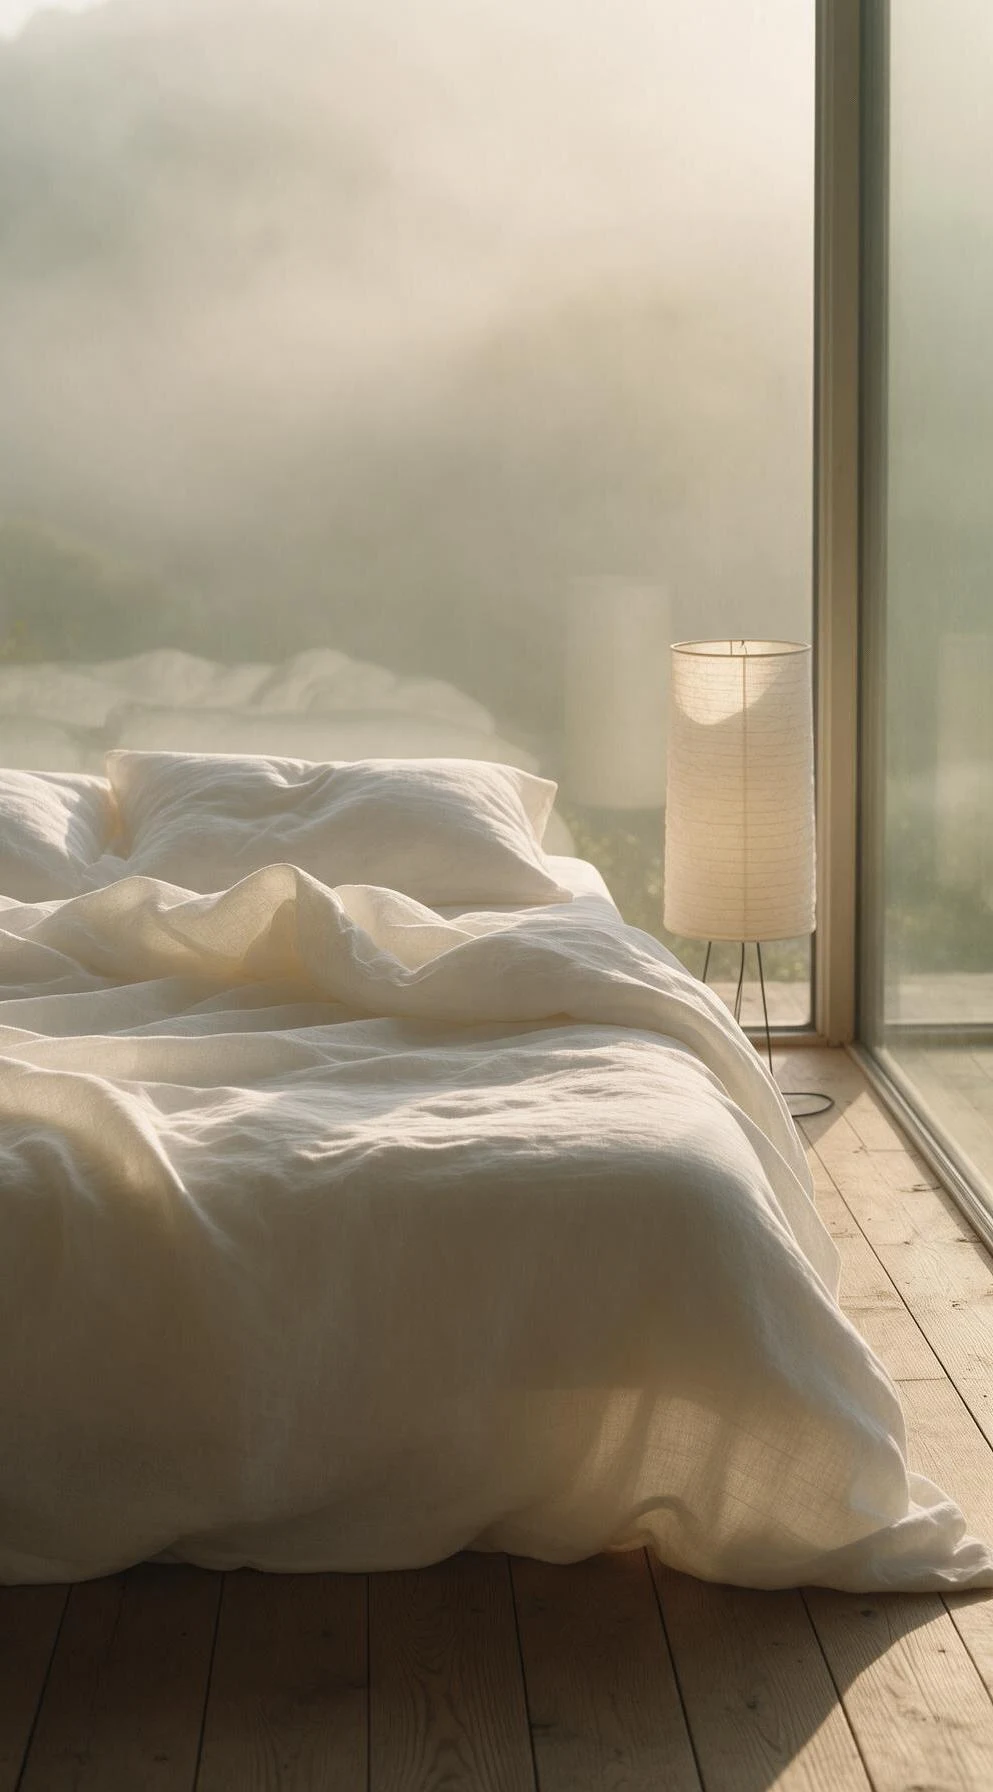
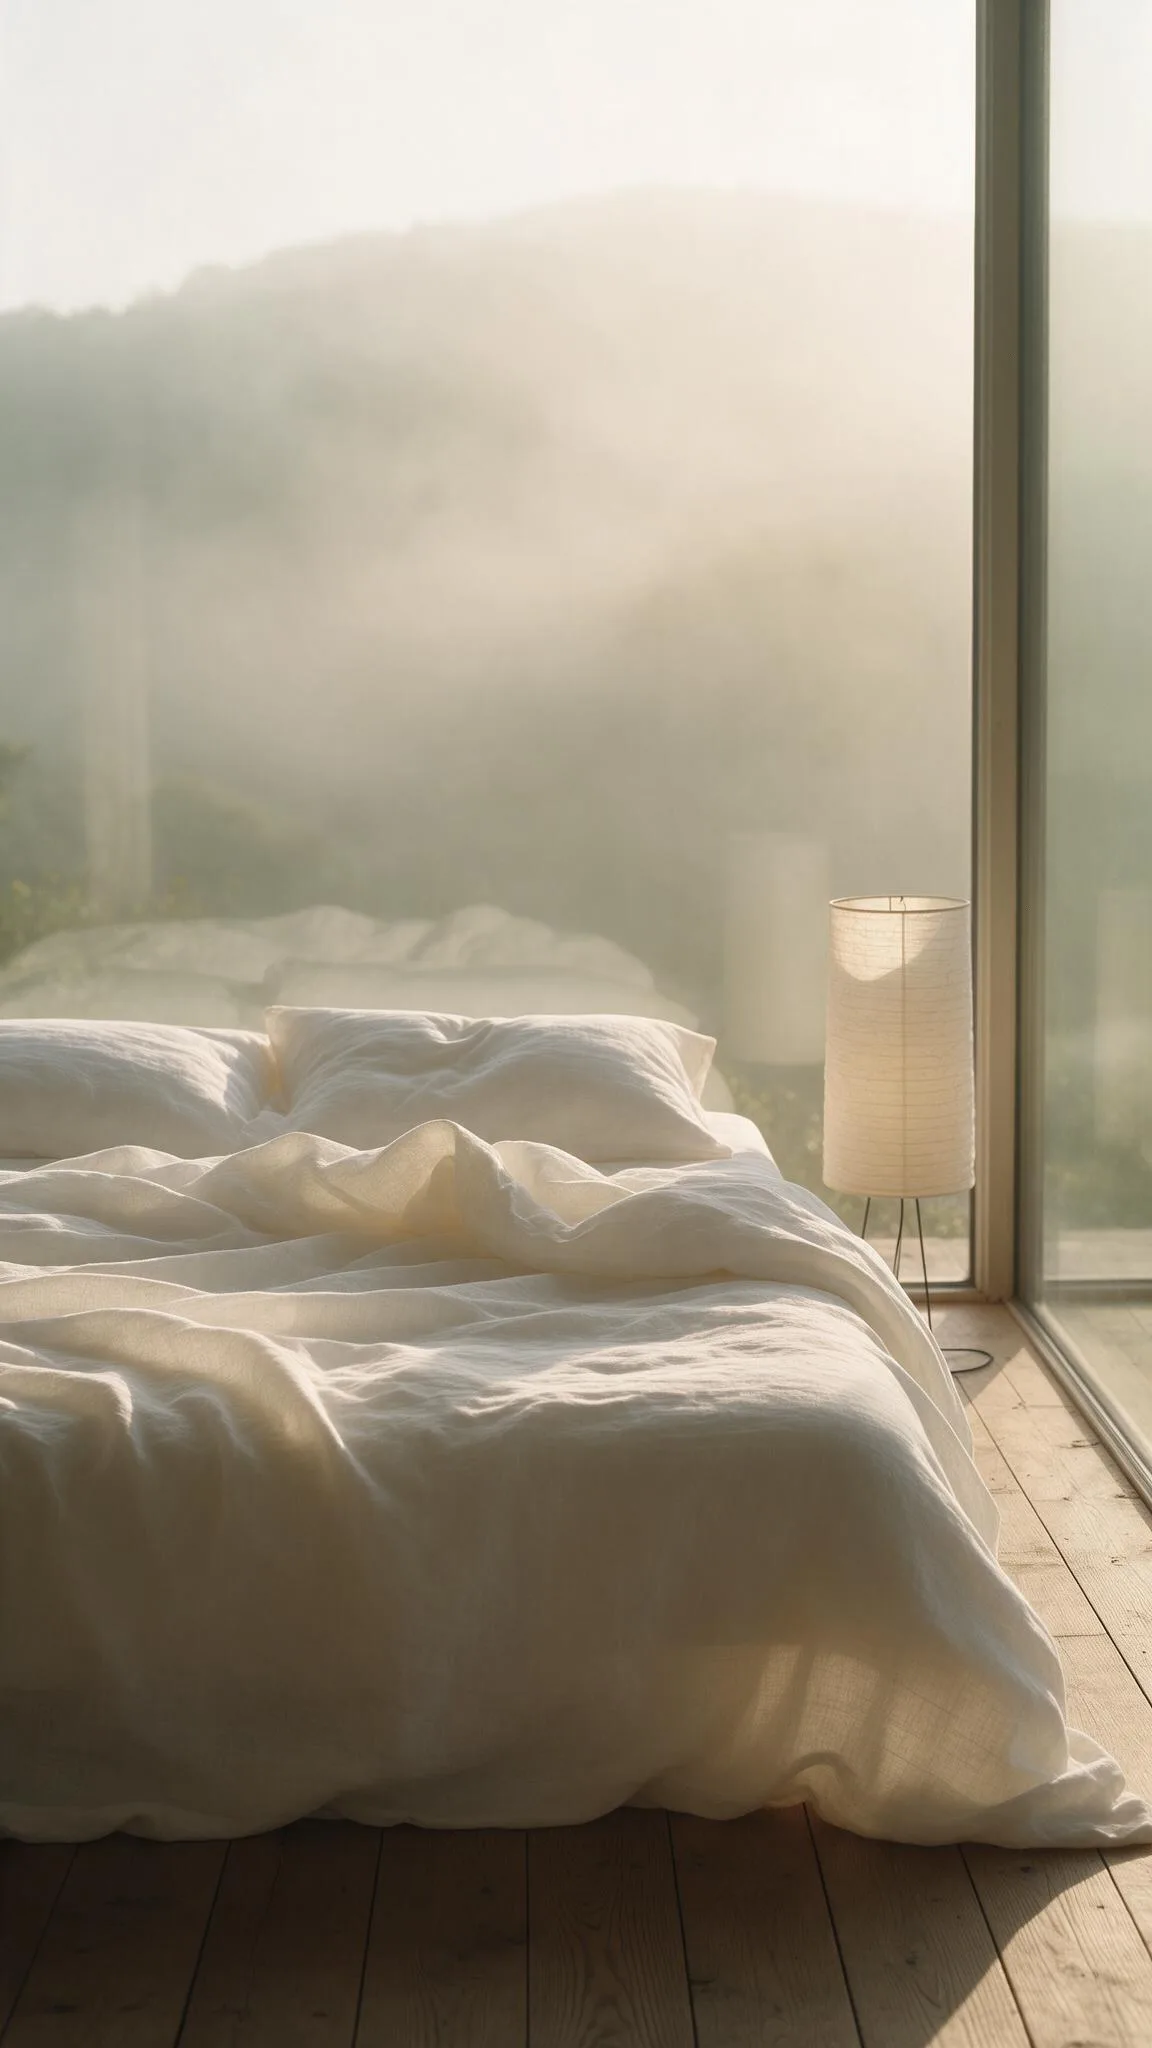
首页 hero 移动端：换回 B 薄雾图，恢复白字 + 白边圆角按键与中下相对定位，高度 89svh

diff --git a/src/data/product-weights.ts b/src/data/product-weights.ts
@@ -1,6 +1,6 @@
 // Auto-generated by scripts/build-weights.js
 // DO NOT EDIT MANUALLY - 人工赋权改 src/data/weights-overrides.ts 后重跑本脚本
-// Generated at: 2026-10-27T20:55:56.366Z
+// Generated at: 2026-10-27T21:19:54.864Z
 
 export interface ProductWeight {
   /** 一级类目（同分破平用类目平均分） */
@@ -56,7 +56,7 @@ export const PRODUCT_WEIGHTS: Record<string, ProductWeight> = {
   "b0f1y4j48t": {"type":"Cushions","score":19,"perf":19,"boost":0},
   "b0f1y91hpr": {"type":"Cushions","score":16.3,"perf":16.3,"boost":0},
   "b0f62xrb55": {"type":"Pillows","score":18.2,"perf":18.2,"boost":0},
-  "b0fnqrrv78": {"type":"Cushions","score":22.5,"perf":22.5,"boost":0},
+  "b0fnqrrv78": {"type":"Cushions","score":22.4,"perf":22.4,"boost":0},
   "b0g6m3f7cy": {"type":"Pillows","score":23.9,"perf":23.9,"boost":0},
   "b0g6mptvfd": {"type":"Pillows","score":51.7,"perf":21.7,"boost":30},
   "mk-pc-cord-caramel": {"type":"Pillows","score":26.6,"perf":26.6,"boost":0},
@@ -157,7 +157,7 @@ export const PRODUCT_WEIGHTS: Record<string, ProductWeight> = {
   "969627065032-c33": {"type":"Blankets","score":21.6,"perf":21.6,"boost":0},
   "744995685423-c2": {"type":"Mats","score":21.6,"perf":21.6,"boost":0},
   "595229918569-c2": {"type":"Mats","score":23.2,"perf":23.2,"boost":0},
-  "744995685423": {"type":"Mats","score":21.7,"perf":21.7,"boost":0},
+  "744995685423": {"type":"Mats","score":21.6,"perf":21.6,"boost":0},
   "595229918569": {"type":"Mats","score":21.7,"perf":21.7,"boost":0},
   "745181807454-c3": {"type":"Mats","score":21.7,"perf":21.7,"boost":0},
   "745181807454-c2": {"type":"Mats","score":22.4,"perf":22.4,"boost":0},
@@ -167,7 +167,7 @@ export const PRODUCT_WEIGHTS: Record<string, ProductWeight> = {
   "996768645117-c3": {"type":"Mats","score":48.9,"perf":23.9,"boost":25},
   "595229918569-c3": {"type":"Mats","score":23.2,"perf":23.2,"boost":0},
   "745181807454-c4": {"type":"Mats","score":23.2,"perf":23.2,"boost":0},
-  "745181807454-c6": {"type":"Mats","score":23.9,"perf":23.9,"boost":0},
+  "745181807454-c6": {"type":"Mats","score":23.8,"perf":23.8,"boost":0},
   "745181807454-c5": {"type":"Mats","score":48.9,"perf":23.9,"boost":25},
   "745181807454-c7": {"type":"Mats","score":24.5,"perf":24.5,"boost":0},
   "745181807454-c8": {"type":"Mats","score":23.2,"perf":23.2,"boost":0},
@@ -209,7 +209,7 @@ export const PRODUCT_WEIGHTS: Record<string, ProductWeight> = {
   "duvset-pink-queen": {"type":"Bedding","score":25.9,"perf":25.9,"boost":0},
   "duvset-pink-full": {"type":"Bedding","score":25.1,"perf":25.1,"boost":0},
   "duvset-pink-twin": {"type":"Bedding","score":25.9,"perf":25.9,"boost":0},
-  "duvset-beige-king": {"type":"Bedding","score":23.2,"perf":23.2,"boost":0},
+  "duvset-beige-king": {"type":"Bedding","score":23.1,"perf":23.1,"boost":0},
   "duvset-beige-queen": {"type":"Bedding","score":55,"perf":25,"boost":30},
   "duvset-beige-full": {"type":"Bedding","score":52.9,"perf":25.9,"boost":27},
   "duvset-beige-twin": {"type":"Bedding","score":23.8,"perf":23.8,"boost":0},
@@ -240,7 +240,7 @@ export const PRODUCT_WEIGHTS: Record<string, ProductWeight> = {
   "bedset4-moss-twin": {"type":"Bedding","score":23.3,"perf":23.3,"boost":0},
   "bedset4-moss-full": {"type":"Bedding","score":24.1,"perf":24.1,"boost":0},
   "bedset4-moss-queen": {"type":"Bedding","score":54.8,"perf":24.8,"boost":30},
-  "bedset4-moss-king": {"type":"Bedding","score":23.3,"perf":23.3,"boost":0},
+  "bedset4-moss-king": {"type":"Bedding","score":23.2,"perf":23.2,"boost":0},
   "bedset4-coffee-twin": {"type":"Bedding","score":23.2,"perf":23.2,"boost":0},
   "bedset4-coffee-full": {"type":"Bedding","score":24,"perf":24,"boost":0},
   "bedset4-coffee-queen": {"type":"Bedding","score":53.3,"perf":23.3,"boost":30},
@@ -257,12 +257,12 @@ export const PRODUCT_WEIGHTS: Record<string, ProductWeight> = {
   "linen3-sage-full": {"type":"Bedding","score":26.4,"perf":26.4,"boost":0},
   "linen3-sage-queen": {"type":"Bedding","score":55.7,"perf":25.7,"boost":30},
   "linen3-sage-king": {"type":"Bedding","score":26.3,"perf":26.3,"boost":0},
-  "linen3-charcoal-twin": {"type":"Bedding","score":26.5,"perf":26.5,"boost":0},
+  "linen3-charcoal-twin": {"type":"Bedding","score":26.4,"perf":26.4,"boost":0},
   "linen3-charcoal-full": {"type":"Bedding","score":26.4,"perf":26.4,"boost":0},
   "linen3-charcoal-queen": {"type":"Bedding","score":55.5,"perf":25.5,"boost":30},
   "linen3-charcoal-king": {"type":"Bedding","score":27.1,"perf":27.1,"boost":0},
   "linen3-dustyblue-twin": {"type":"Bedding","score":26.4,"perf":26.4,"boost":0},
-  "linen3-dustyblue-full": {"type":"Bedding","score":26.4,"perf":26.4,"boost":0},
+  "linen3-dustyblue-full": {"type":"Bedding","score":26.3,"perf":26.3,"boost":0},
   "linen3-dustyblue-queen": {"type":"Bedding","score":56.3,"perf":26.3,"boost":30},
   "linen3-dustyblue-king": {"type":"Bedding","score":25.7,"perf":25.7,"boost":0},
   "linen3-ivory-twin": {"type":"Bedding","score":25.7,"perf":25.7,"boost":0},

diff --git a/src/components/v2/V2Hero.tsx b/src/components/v2/V2Hero.tsx
@@ -4,7 +4,7 @@ import { v2url } from '@/lib/v2paths';
 // 静态 Hero：editorial-B「落地窗薄雾山野」（2026-10-27 用户定转正；sunday/autumn 版文件保留未删）
 const heroImage = {
   desktop: '/images/brand/hero-mist-desktop.webp',
-  mobile: '/images/brand/hero-japandi-mobile.webp',
+  mobile: '/images/brand/hero-mist-mobile.webp',
   alt: 'Makimoo bed floating in soft morning mist by a floor-to-ceiling window with mountain view',
 };
 
@@ -15,11 +15,11 @@ export default function V2Hero() {
     // 用 vh 会按最大可视高计算，首屏内容被挤出屏外。svh 保证两种状态下 Hero 都不溢出（2026-09-28 用户反馈 Edge 实测）。
     // bg-[#cfc0a8]：图片解码完成前的暖色垫层（hero 图墙面色调）——sticky 结构下 hero 顶部紧贴
     // 公告条下沿，无垫层时加载中会透出身后米色、形成一道"缝隙"（2026-10-12 用户反馈）
-    <section className="relative h-[87svh] min-h-[440px] lg:h-[87vh] lg:min-h-[560px] overflow-hidden bg-[#cfc0a8]">
+    <section className="relative h-[89svh] min-h-[440px] lg:h-[87vh] lg:min-h-[560px] overflow-hidden bg-[#cfc0a8]">
       {/* Background（静态单图；2026-10-10 用户定取消 ken-burns 缩放动效）：移动端 9:16、桌面端 16:9 两层按断点切换 */}
       <div className="absolute inset-0 overflow-hidden">
         <div
-          className="absolute inset-0 bg-cover bg-bottom lg:hidden"
+          className="absolute inset-0 bg-cover bg-top lg:hidden"
           style={{ backgroundImage: `url(${resolveUrl(heroImage.mobile)})` }}
           role="img"
           aria-label={heroImage.alt}
@@ -35,16 +35,16 @@ export default function V2Hero() {
       {/* Text content：移动端 justify-center + pb-[calc(9svh+90px)]；
           桌面端 2026-10-27 用户定：锚定视口左侧 lg:px-[7vw]（废弃 max-w-1400 居中 + min() 抵消方案——
           不同分辨率下位置乱跳，窄屏甚至反向右移）；字号流式 clamp 随分辨率缩放；底部 justify-end + 上移 70px */}
-      <div className="relative z-10 h-full max-w-[1400px] mx-auto px-8 lg:px-[7vw] flex flex-col justify-end lg:max-w-none lg:px-[7vw] lg:-translate-y-[70px] lg:pb-[8vh]">
+      <div className="relative z-10 h-full max-w-[1400px] mx-auto px-6 flex flex-col justify-center pb-[20svh] lg:max-w-none lg:px-[7vw] lg:-translate-y-[70px] lg:justify-end lg:pb-[8vh]">
         <h1
-          className="text-[24px] sm:text-3xl lg:text-[clamp(2rem,2.6vw,3rem)] lg:leading-[1.05] font-extrabold tracking-tight leading-[1.05] text-[#916F54] lg:text-cream max-w-3xl mb-[25px] lg:mb-7 animate-fade-in-up"
+          className="text-[24px] sm:text-3xl lg:text-[clamp(2rem,2.6vw,3rem)] lg:leading-[1.05] font-extrabold tracking-tight leading-[1.05] text-cream max-w-3xl mb-[18px] lg:mb-7 animate-fade-in-up"
         >
           Rest, Naturally
         </h1>
-        <div className="animate-fade-in-up pb-[calc(2.5svh+5px)] lg:pb-0" style={{ animationDelay: '300ms' }}>
+        <div className="animate-fade-in-up" style={{ animationDelay: '300ms' }}>
           <a
             href={v2url('/products/?cat=bedding')}
-            className="inline-block px-5 py-2 lg:px-7 lg:py-3 rounded-none lg:rounded-full bg-[#916F54] border-2 border-[#916F54] text-cream hover:bg-[#7C5E46] hover:border-[#7C5E46] lg:bg-transparent lg:border-cream lg:text-cream lg:hover:bg-cream lg:hover:text-brand text-xs lg:text-sm font-semibold tracking-wide transition-all duration-300 hover:shadow-xl"
+            className="inline-block px-6 py-2.5 lg:px-7 lg:py-3 rounded-full bg-transparent border-2 border-cream text-cream text-xs lg:text-sm font-semibold tracking-wide transition-all duration-300 hover:bg-cream hover:text-brand hover:shadow-xl"
           >
             Shop Beddings
           </a>

diff --git a/src/data/shopify-map.ts b/src/data/shopify-map.ts
@@ -1,6 +1,6 @@
 // Auto-generated by scripts/build-shopify-map.js
 // DO NOT EDIT MANUALLY - Run 'node scripts/build-shopify-map.js' to update
-// Generated at: 2026-10-27T20:55:55.665Z
+// Generated at: 2026-10-27T21:19:54.084Z
 
 export interface ShopifyProductEntry {
   variantId: string;
